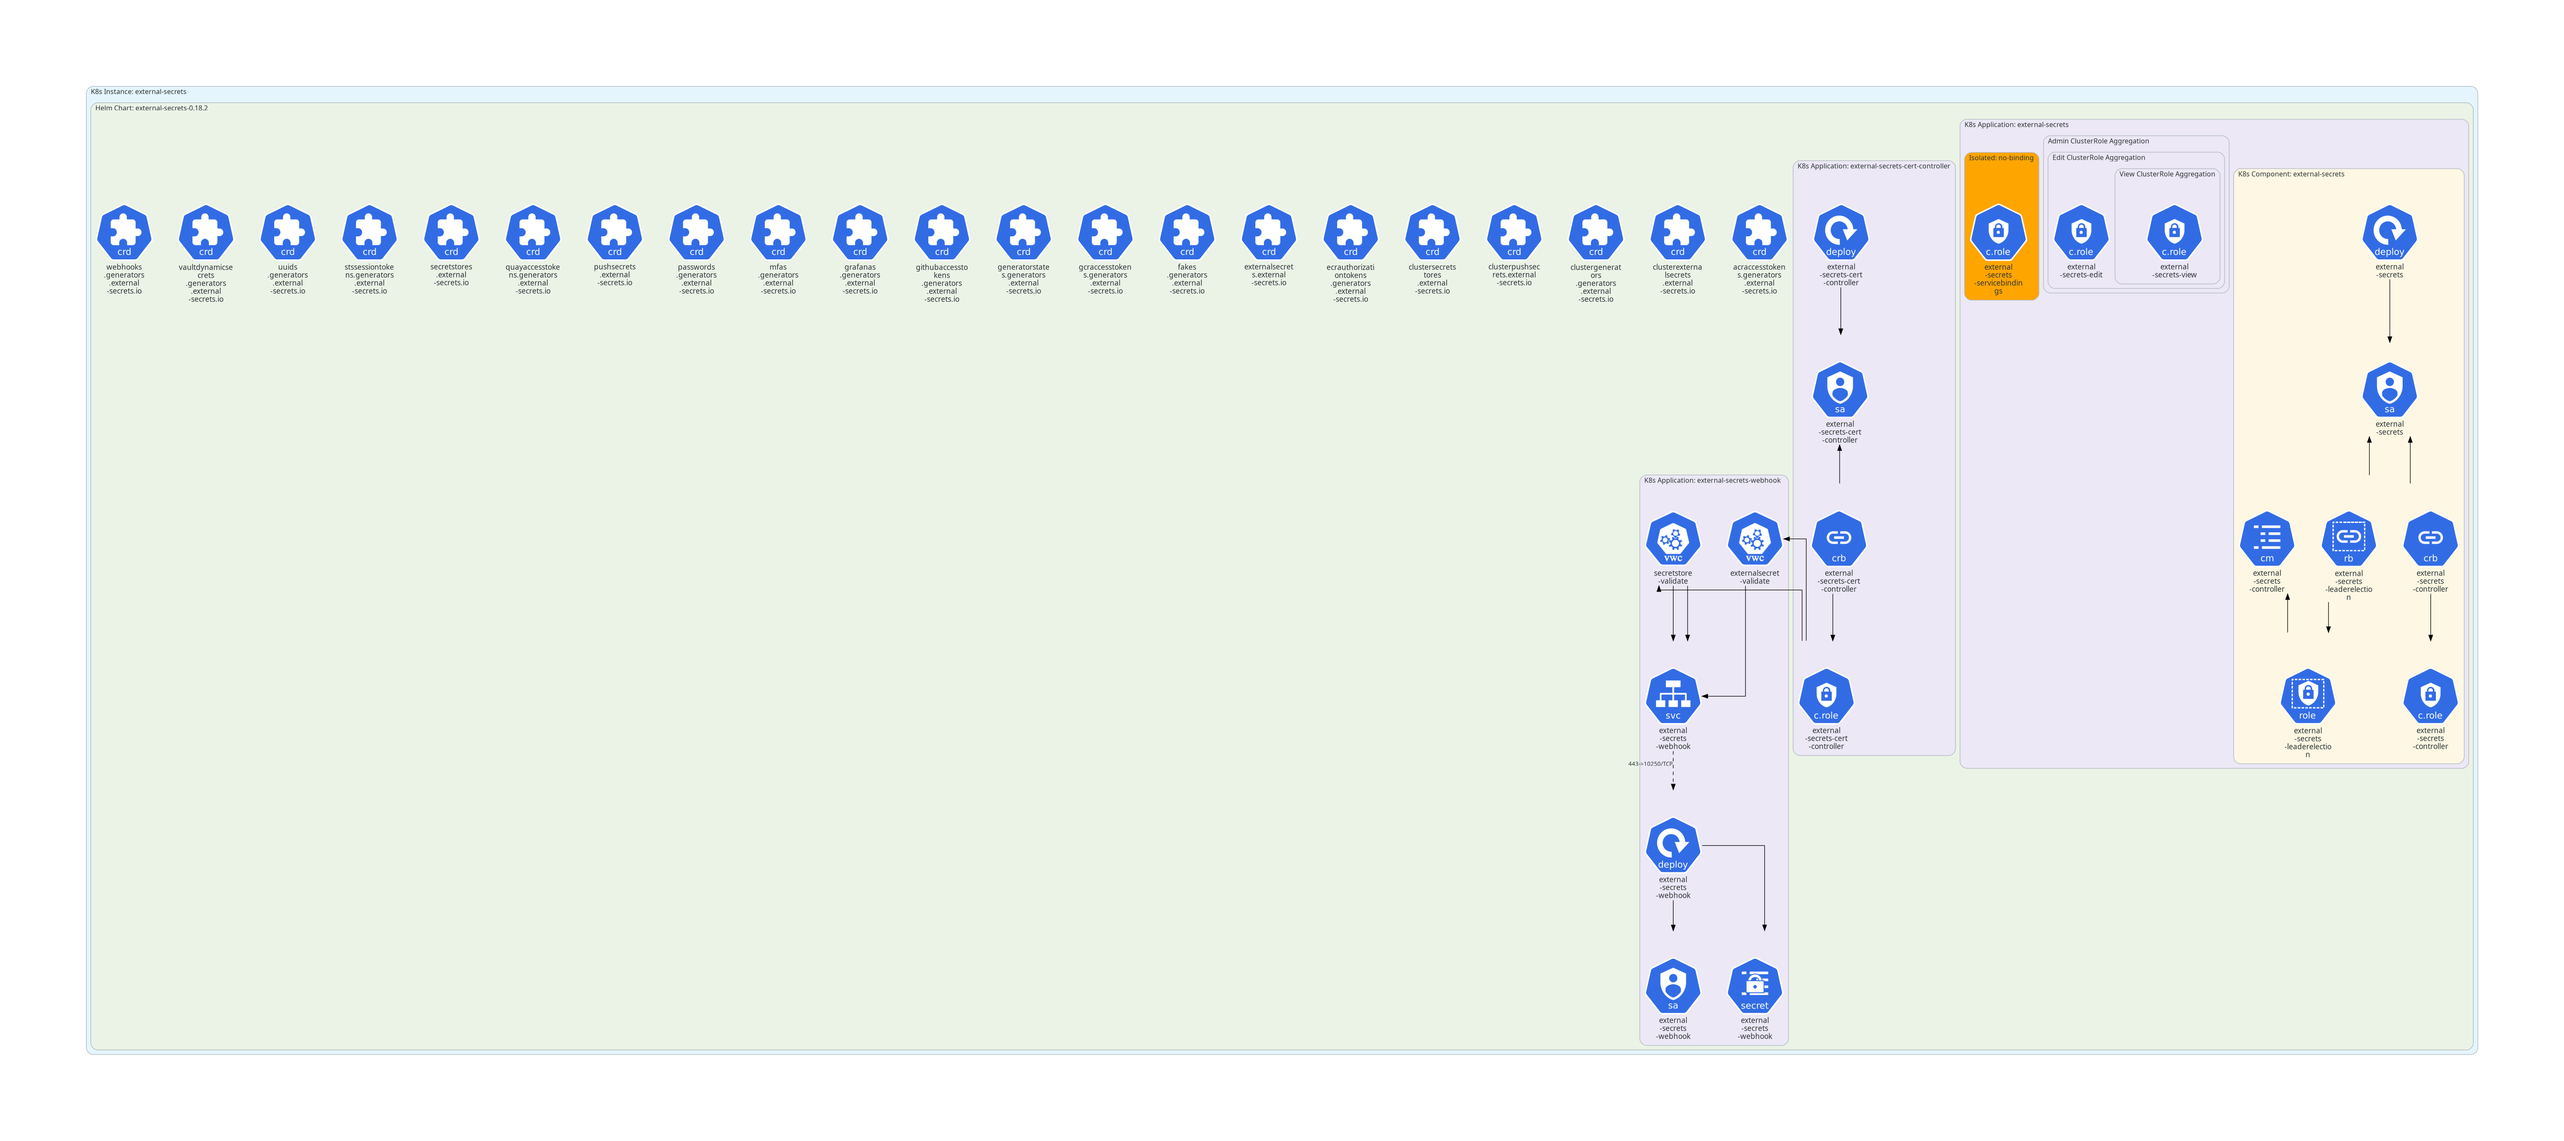
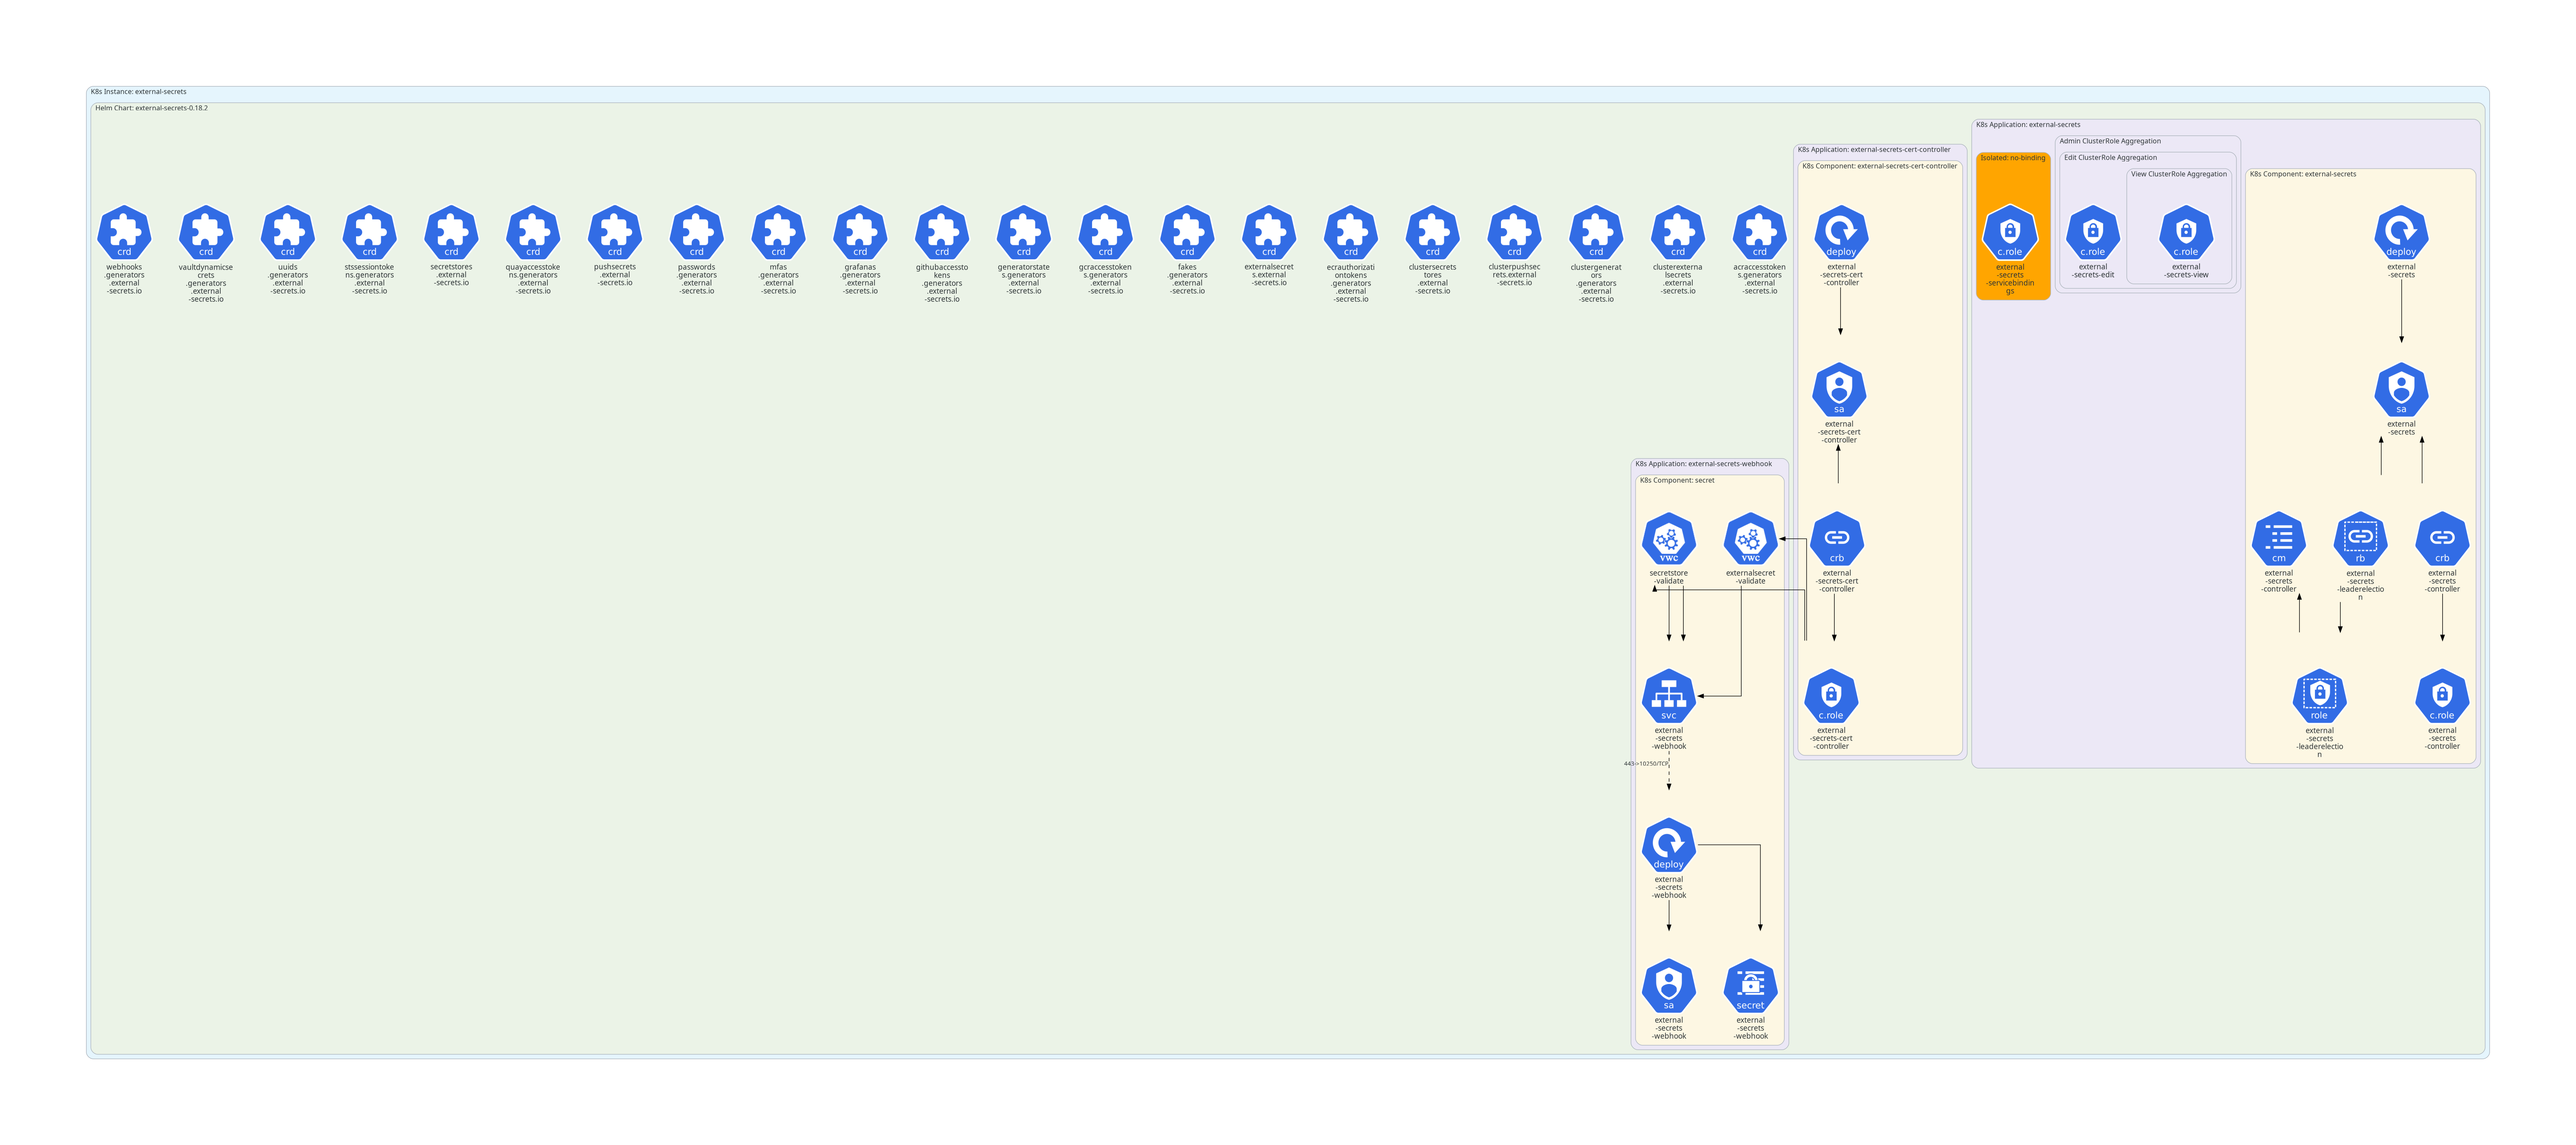
update component algo

diff --git a/src/kubefix/algo_name_component.py b/src/kubefix/algo_name_component.py
@@ -1,4 +1,4 @@
-"""Name a component for connected resources of the same cluster."""
+"""Name/extend a component for connected resources of the same cluster."""
 
 import re
 
@@ -6,10 +6,11 @@ from kubefix.edges import compute_rid, create_new_nodes, process_edges
 from kubefix.edges.helpers import query_path
 
 from kubefix.algo_label_intersection import _DEFAULT_CONFIG_PATH, _load_config, _cluster_label_keys
-from kubefix.algo_comp_label_union import _build_adjacency, _connected_components
+from kubefix.algo_add_proximity_labels import _build_adjacency
 from kubefix.common import Warning, Stat
 
 COMPONENT_LABEL = "app.kubernetes.io/component"
+APPLICATION_LABEL = "app.kubernetes.io/name"
 
 # Below this length the common substring is meaningless,
 # so DEFAULT_COMPONENT_NAME is used instead.
@@ -21,10 +22,14 @@ _MAX_LABEL_VALUE_LENGTH = 63
 _INVALID_LABEL_CHARS = re.compile(r"[^A-Za-z0-9_.-]")
 
 
+def _labels(resource):
+    """Returns the labels of a resource ({} if none)."""
+    return query_path(resource, "metadata.labels", {}) or {}
+
+
 def _cluster_labels(resource, cluster_label_keys):
     """Returns the cluster labels of a resource."""
-    labels = query_path(resource, "metadata.labels", {}) or {}
-    return {k: v for k, v in labels.items() if k in cluster_label_keys}
+    return {k: v for k, v in _labels(resource).items() if k in cluster_label_keys}
 
 
 def _longest_common_substring(names):
@@ -46,13 +51,116 @@ def _to_label_value(s):
     return s.strip("-_.")
 
 
-def algo_name_component(resources, config_path=None):
-    """For each connected component whose resources all share the same
-    cluster-labels and none has a component label, give them all a
-    component label named after the longest common substring of their names.
+def _name_component(members, warnings):
+    """Component name for members: the longest common substring of their names,
+    or DEFAULT_COMPONENT_NAME (with a warning) when it is too short."""
+    names = [query_path(r, "metadata.name", "") or "" for r in members]
+    value = _to_label_value(_longest_common_substring(names))
+    if len(value) < MIN_COMPONENT_LENGTH:
+        warnings.append(Warning(
+            resource_kind=members[0].get("kind", "?"),
+            resource_name=names[0],
+            message=f"No common name for {sorted(names)}; "
+                    f"using default component '{DEFAULT_COMPONENT_NAME}'.",
+        ))
+        value = DEFAULT_COMPONENT_NAME
+    return value
 
-    Single-resource components are skipped. Synthesised nodes take part in
-    the connectivity but are not checked, named or labelled.
+
+def _set_component_label(resource, value):
+    """Set the component label of a resource, creating metadata.labels if needed."""
+    labels = query_path(resource, "metadata.labels")
+    if not isinstance(labels, dict):
+        labels = {}
+        if "metadata" not in resource:
+            resource["metadata"] = {}
+        resource["metadata"]["labels"] = labels
+    labels[COMPONENT_LABEL] = value
+
+
+def _component_stat(resource):
+    return Stat(
+        resource_kind=resource.get("kind", "?"),
+        resource_name=query_path(resource, "metadata.name", "?"),
+        changed_labels=1,
+    )
+
+
+def _connected_components(rids, adj):
+    """Returns a list of connected components (each a set of rids), found by BFS."""
+    seen = set()
+    components = []
+    for start in rids:
+        if start in seen:
+            continue
+        component = set()
+        queue = [start]
+        seen.add(start)
+        while queue:
+            rid = queue.pop()
+            component.add(rid)
+            for neighbour in adj.get(rid, ()):
+                if neighbour not in seen:
+                    seen.add(neighbour)
+                    queue.append(neighbour)
+        components.append(component)
+    return components
+
+
+def _component_within_application(resources_by_rid, output_rids, adj, warnings):
+    """For each K8s application with at least two resources that form a single
+    connected component among themselves:
+      - if exactly one component label value is used, give it to all of its resources that lack one;
+      - if no component label is used, give them all a new component label
+        named after the longest common substring of their names.
+
+    Applications with several component values or several connected
+    components are skipped for now.
+
+    Returns the list of stats for the labelled resources.
+    """
+    apps = {}
+    for rid in output_rids:
+        app = _labels(resources_by_rid[rid]).get(APPLICATION_LABEL)
+        if app is not None:
+            apps.setdefault(app, set()).add(rid)
+
+    stats = []
+    for app_rids in apps.values():
+        # skip if there are fewer than 2 resources within the application
+        if len(app_rids) <= 1:
+            continue
+
+        # Connectivity among the application's resources only.
+        app_adj = {rid: adj.get(rid, set()) & app_rids for rid in app_rids}
+        if len(_connected_components(list(app_rids), app_adj)) != 1:
+            continue
+
+        members = [resources_by_rid[rid] for rid in app_rids]
+        values = {_labels(r)[COMPONENT_LABEL] for r in members if COMPONENT_LABEL in _labels(r)}
+        if len(values) == 1:
+            value = next(iter(values))
+        elif not values:
+            value = _name_component(members, warnings)
+        else:
+            continue
+
+        for resource in members:
+            if COMPONENT_LABEL in _labels(resource):
+                continue
+            _set_component_label(resource, value)
+            stats.append(_component_stat(resource))
+    return stats
+
+
+def algo_name_component(resources, config_path=None):
+    """For each connected component whose resources all share the same cluster-labels and none has a component label, 
+    give them all a component label named after the longest common substring of their names.
+
+    Single-resource components are skipped. Synthesised nodes take part in the connectivity but are not checked, named or labelled.
+
+    Then, within each K8s application whose resources are connected among themselves, the single component label value used
+    is given to the remaining resources, or, if none is used, a new component is named for all of them.
 
     Args:
         resources: list of Kubernetes resources (dicts).
@@ -90,30 +198,11 @@ def algo_name_component(resources, config_path=None):
         if COMPONENT_LABEL in cluster_labels:
             continue
 
-        names = [query_path(r, "metadata.name", "") or "" for r in members]
-        value = _to_label_value(_longest_common_substring(names))
-        if len(value) < MIN_COMPONENT_LENGTH:
-            warnings.append(Warning(
-                resource_kind=members[0].get("kind", "?"),
-                resource_name=names[0],
-                message=f"No common name for {sorted(names)}; "
-                        f"using default component '{DEFAULT_COMPONENT_NAME}'.",
-            ))
-            value = DEFAULT_COMPONENT_NAME
-
+        value = _name_component(members, warnings)
         for resource in members:
-            labels = query_path(resource, "metadata.labels")
-            if not isinstance(labels, dict):
-                labels = {}
-                if "metadata" not in resource:
-                    resource["metadata"] = {}
-                resource["metadata"]["labels"] = labels
-            labels[COMPONENT_LABEL] = value
+            _set_component_label(resource, value)
+            stats.append(_component_stat(resource))
 
-            stats.append(Stat(
-                resource_kind=resource.get("kind", "?"),
-                resource_name=query_path(resource, "metadata.name", "?"),
-                changed_labels=1,
-            ))
+    stats.extend(_component_within_application(resources_by_rid, output_rids, adj, warnings))
 
     return resources, warnings, stats
